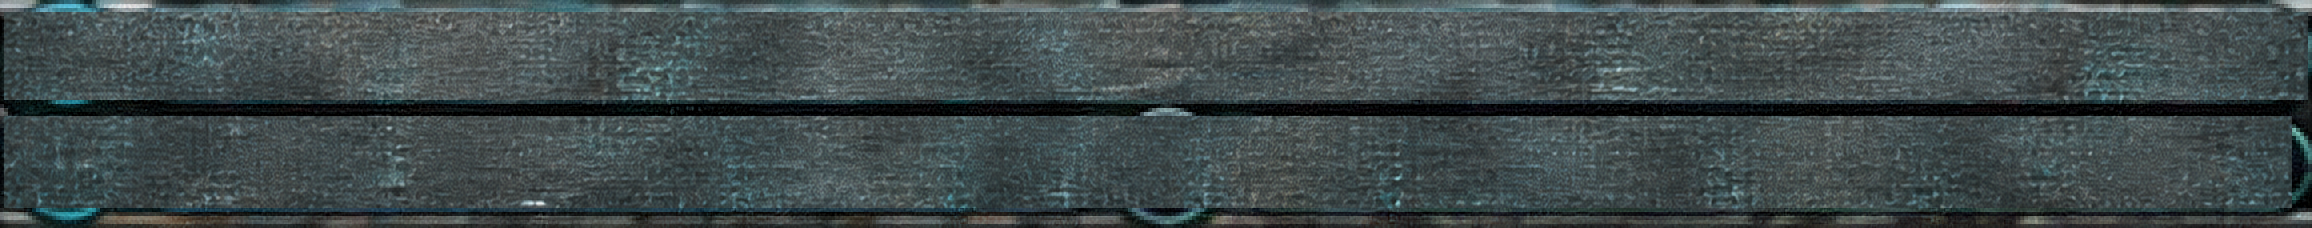
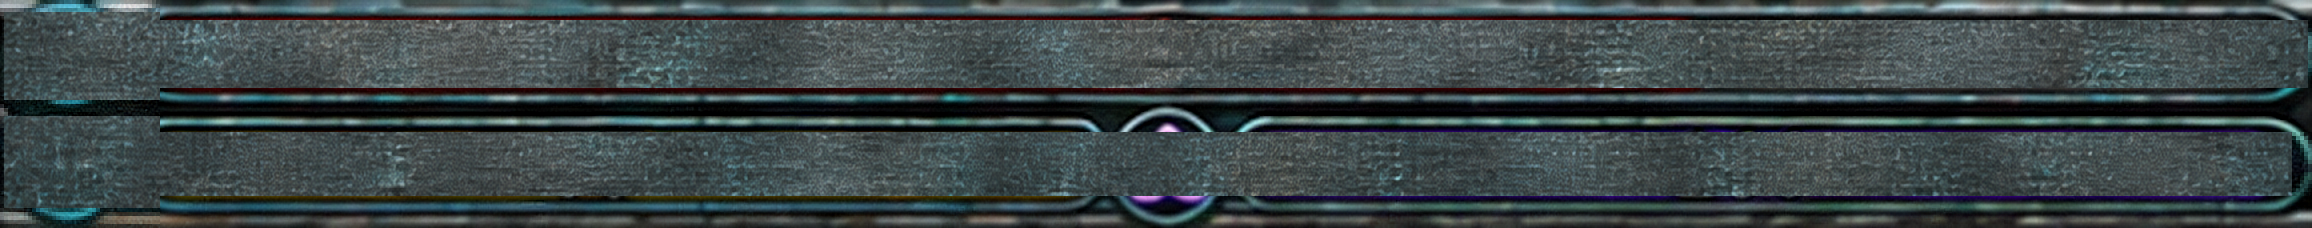
fix(art): block-tip rail caps (tipcap-l/r under knot-inner + bar tips, target 428..450 / 1178..1200), wing-right-v2 hole fixed, field-band

Changed region(s): [[0.0623, 0.3684, 1.0, 0.5833], [0.0623, 0.8596, 1.0, 0.9825], [0.0623, 0.0, 1.0, 0.0921]]

diff --git a/src/RuneSkin/Hud/HudStrip.cs b/src/RuneSkin/Hud/HudStrip.cs
@@ -77,8 +77,9 @@ namespace RuneSkin.PlayerHud
             // then the medallions and the cells (BuildFront).
             // Target panel extras (user screenshot 2026-10-23): rail runs and small diamond knots between the wings and the
             // bar block, the wings themselves (fixed pieces, the right one its own art), end medallions over the wing ends.
-            _capL = Piece("RailCapLeft", _back, "sprite.hud.strip7.rail", Image.Type.Tiled);
-            _capR = Piece("RailCapRight", _back, Own("sprite.hud.strip7.rail"), Image.Type.Tiled);
+            // block-tip rail caps: first = under the inner diamonds (Knot2) and the bar block's tips (composite gate of the pieces)
+            _capL = Piece("RailCapLeft", _back, "sprite.hud.strip7.tipcap", Image.Type.Simple);
+            _capR = Piece("RailCapRight", _back, Own("sprite.hud.strip7.tipcap"), Image.Type.Simple);
             _stubL = Piece("RailStubLeft", _back, "sprite.hud.strip7.rail", Image.Type.Tiled);
             _stubR = Piece("RailStubRight", _back, Own("sprite.hud.strip7.rail"), Image.Type.Tiled);
             _railL = Piece("RailLeft", _back, "sprite.hud.strip7.rail", Image.Type.Sliced);
@@ -340,7 +341,7 @@ namespace RuneSkin.PlayerHud
             Place(_stubL, f.StubL, false);
             Place(_stubR, f.StubR, false);
             Place(_capL, f.CapL, false);
-            Place(_capR, f.CapR, false);
+            Place(_capR, f.CapR, !HasOwn("sprite.hud.strip7.tipcap"));
             Place(_knot2L, f.Knot2L, false);
             Place(_knot2R, f.Knot2R, !HasOwn("sprite.hud.strip7.knot2"));
             // a wing slot grown onto the rail run hides the wing-tip diamond under it (the round socket would leave its

diff --git a/src/RuneSkin/Hud/StripMath.cs b/src/RuneSkin/Hud/StripMath.cs
@@ -211,11 +211,11 @@ namespace RuneSkin.PlayerHud
             f.StubL = new Box(stubL, railY, railX + t7("rail.stub.lap", 4f) - stubL, railH);
             var stubR = f.RailR.Right - t7("rail.stub.lap", 4f);
             f.StubR = new Box(stubR, f.RailR.Y, f.KnotR.Right - stubR, f.RailR.H);
-            // rail caps (the tileable rail) under the bar block's pointed ends: the runs stop short of the tip (stretching them
-            // would break their pinned wire pattern) and a gap showed above / below it
-            float capW = t7("rail.cap.w", 20.2f), capIn = t7("rail.cap.in", 6f);
-            f.CapL = new Box(l.BarsX + capIn - capW, railY, capW, railH);
-            f.CapR = new Box(l.BarsX + l.BarsW - capW, f.RailR.Y, capW, f.RailR.H); // the right run starts under the block already
+            // block-tip rail caps under the bar block's pointed ends (target px 428..450 / 1178..1200, y 148..194; bar block
+            // 438..1190, bottom 203; 85 units per 59 px): the inner diamond and the block's own tip are drawn over them
+            float capW = t7("tipcap.w", 31.7f), capH = t7("tipcap.h", 66.3f), capY = t7("tipcap.y", 13f);
+            f.CapL = new Box(l.BarsX + t7("tipcap.dx", -14.4f), capY, capW, capH);
+            f.CapR = new Box(l.BarsX + l.BarsW + t7("tipcap.r.dx", -17.3f), capY, capW, capH);
             float k2dx = t7("knot2.dx", -21.6f), k2y = t7("knot2.y", 47.5f), k2w = t7("knot2.w", 30.5f), k2h = t7("knot2.h", 32.6f);
             f.Knot2L = new Box(l.BarsX + k2dx - k2w / 2f, k2y - k2h / 2f, k2w, k2h);
             f.Knot2R = new Box(l.BarsX + l.BarsW - k2dx - k2w / 2f, k2y - k2h / 2f, k2w, k2h);
